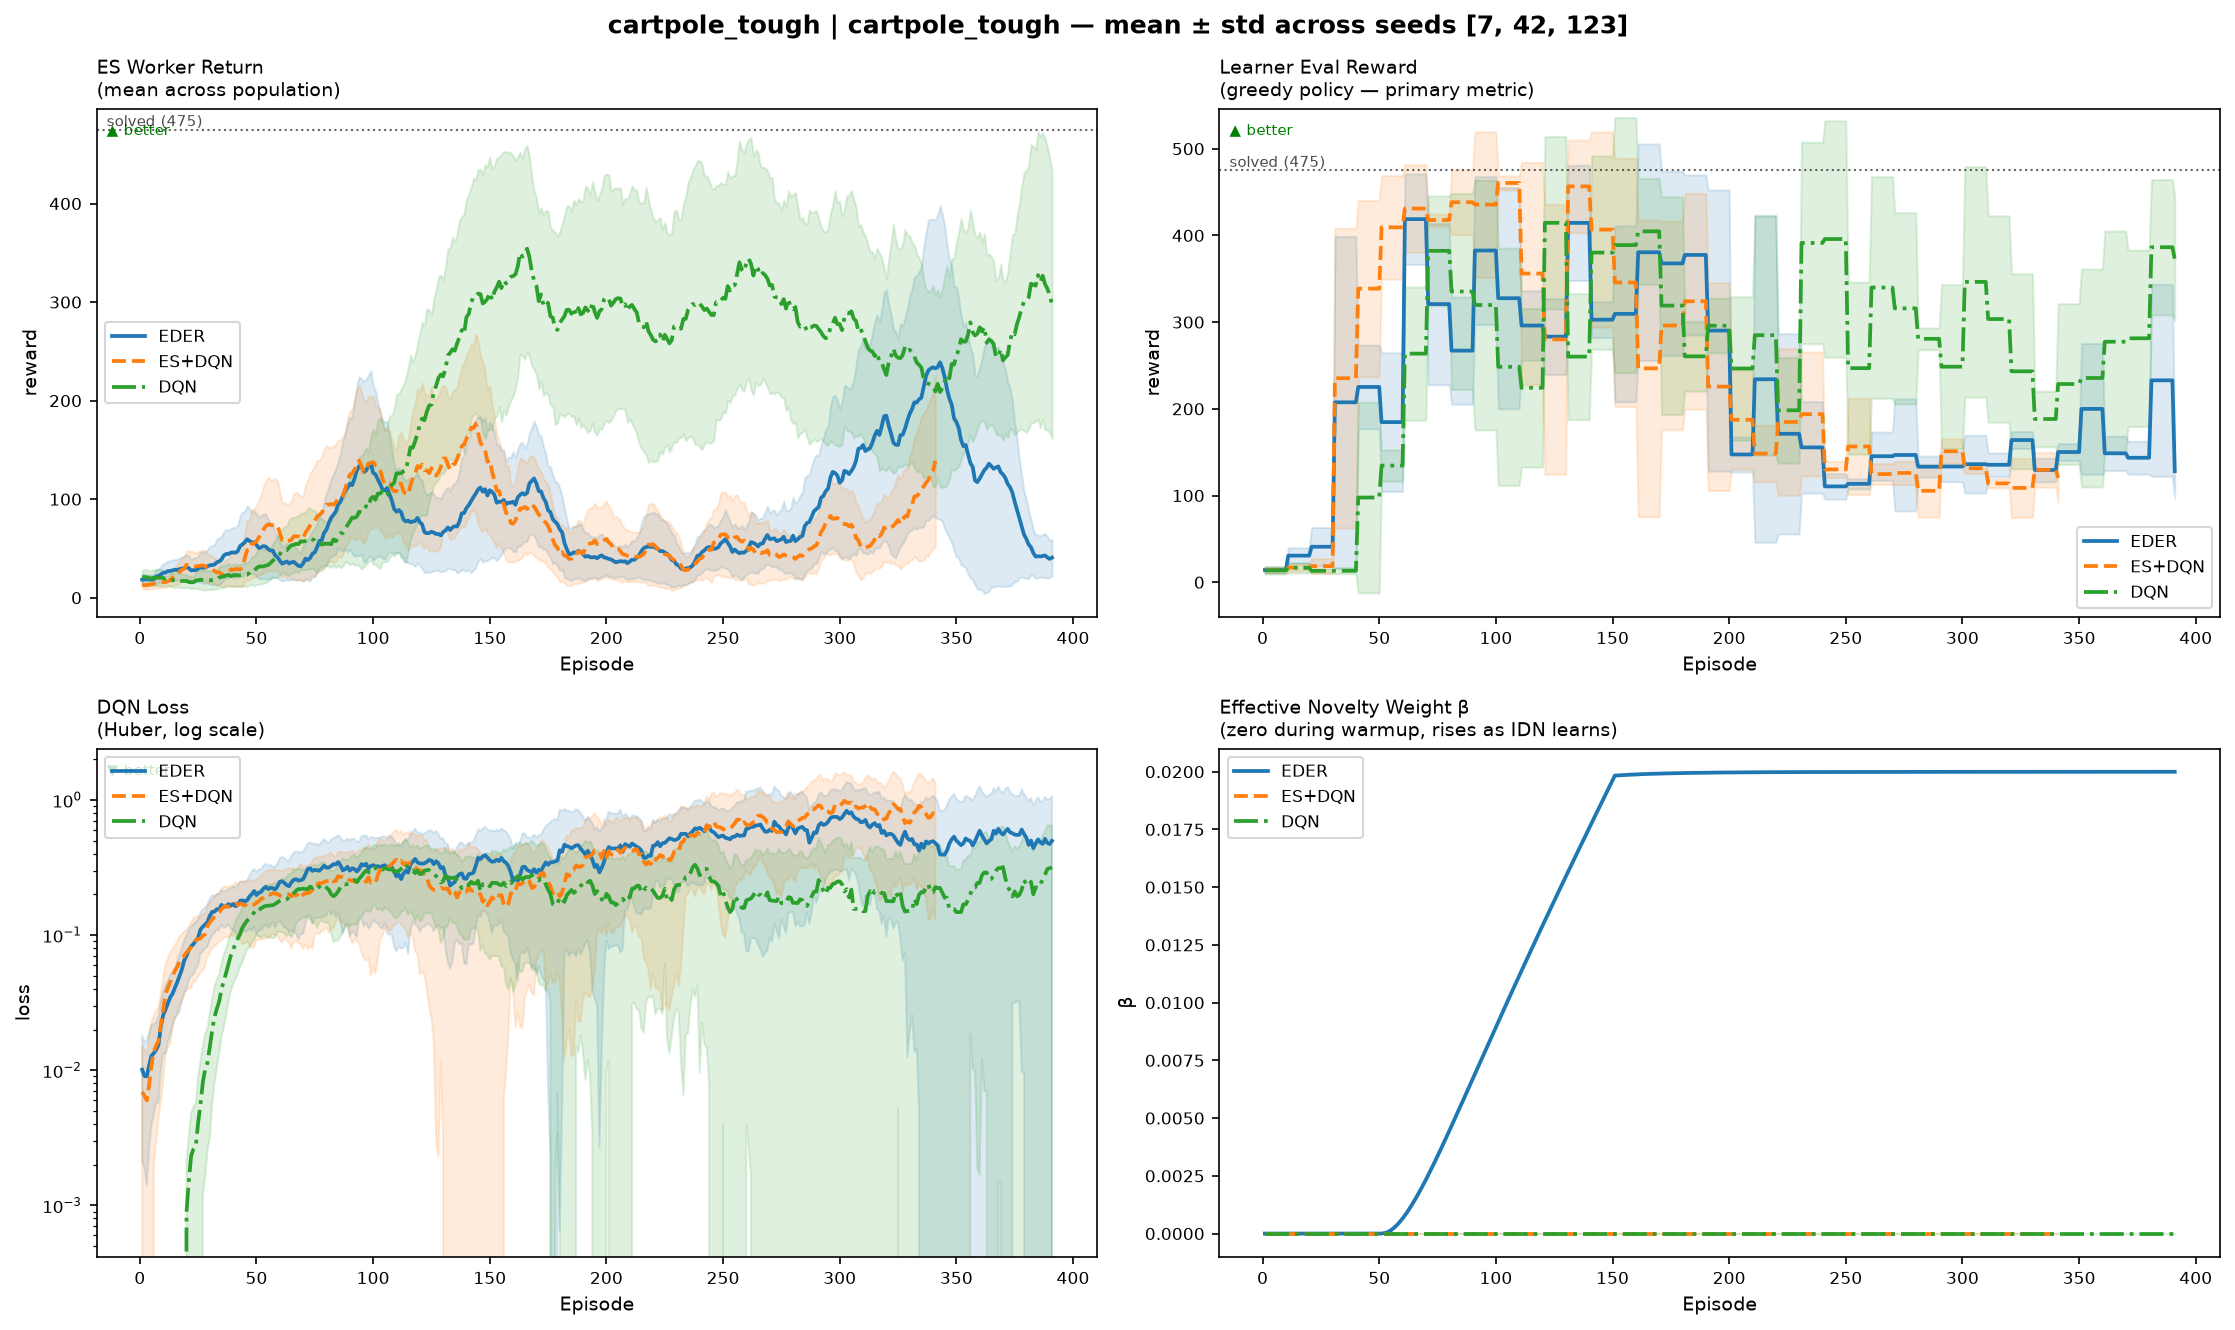
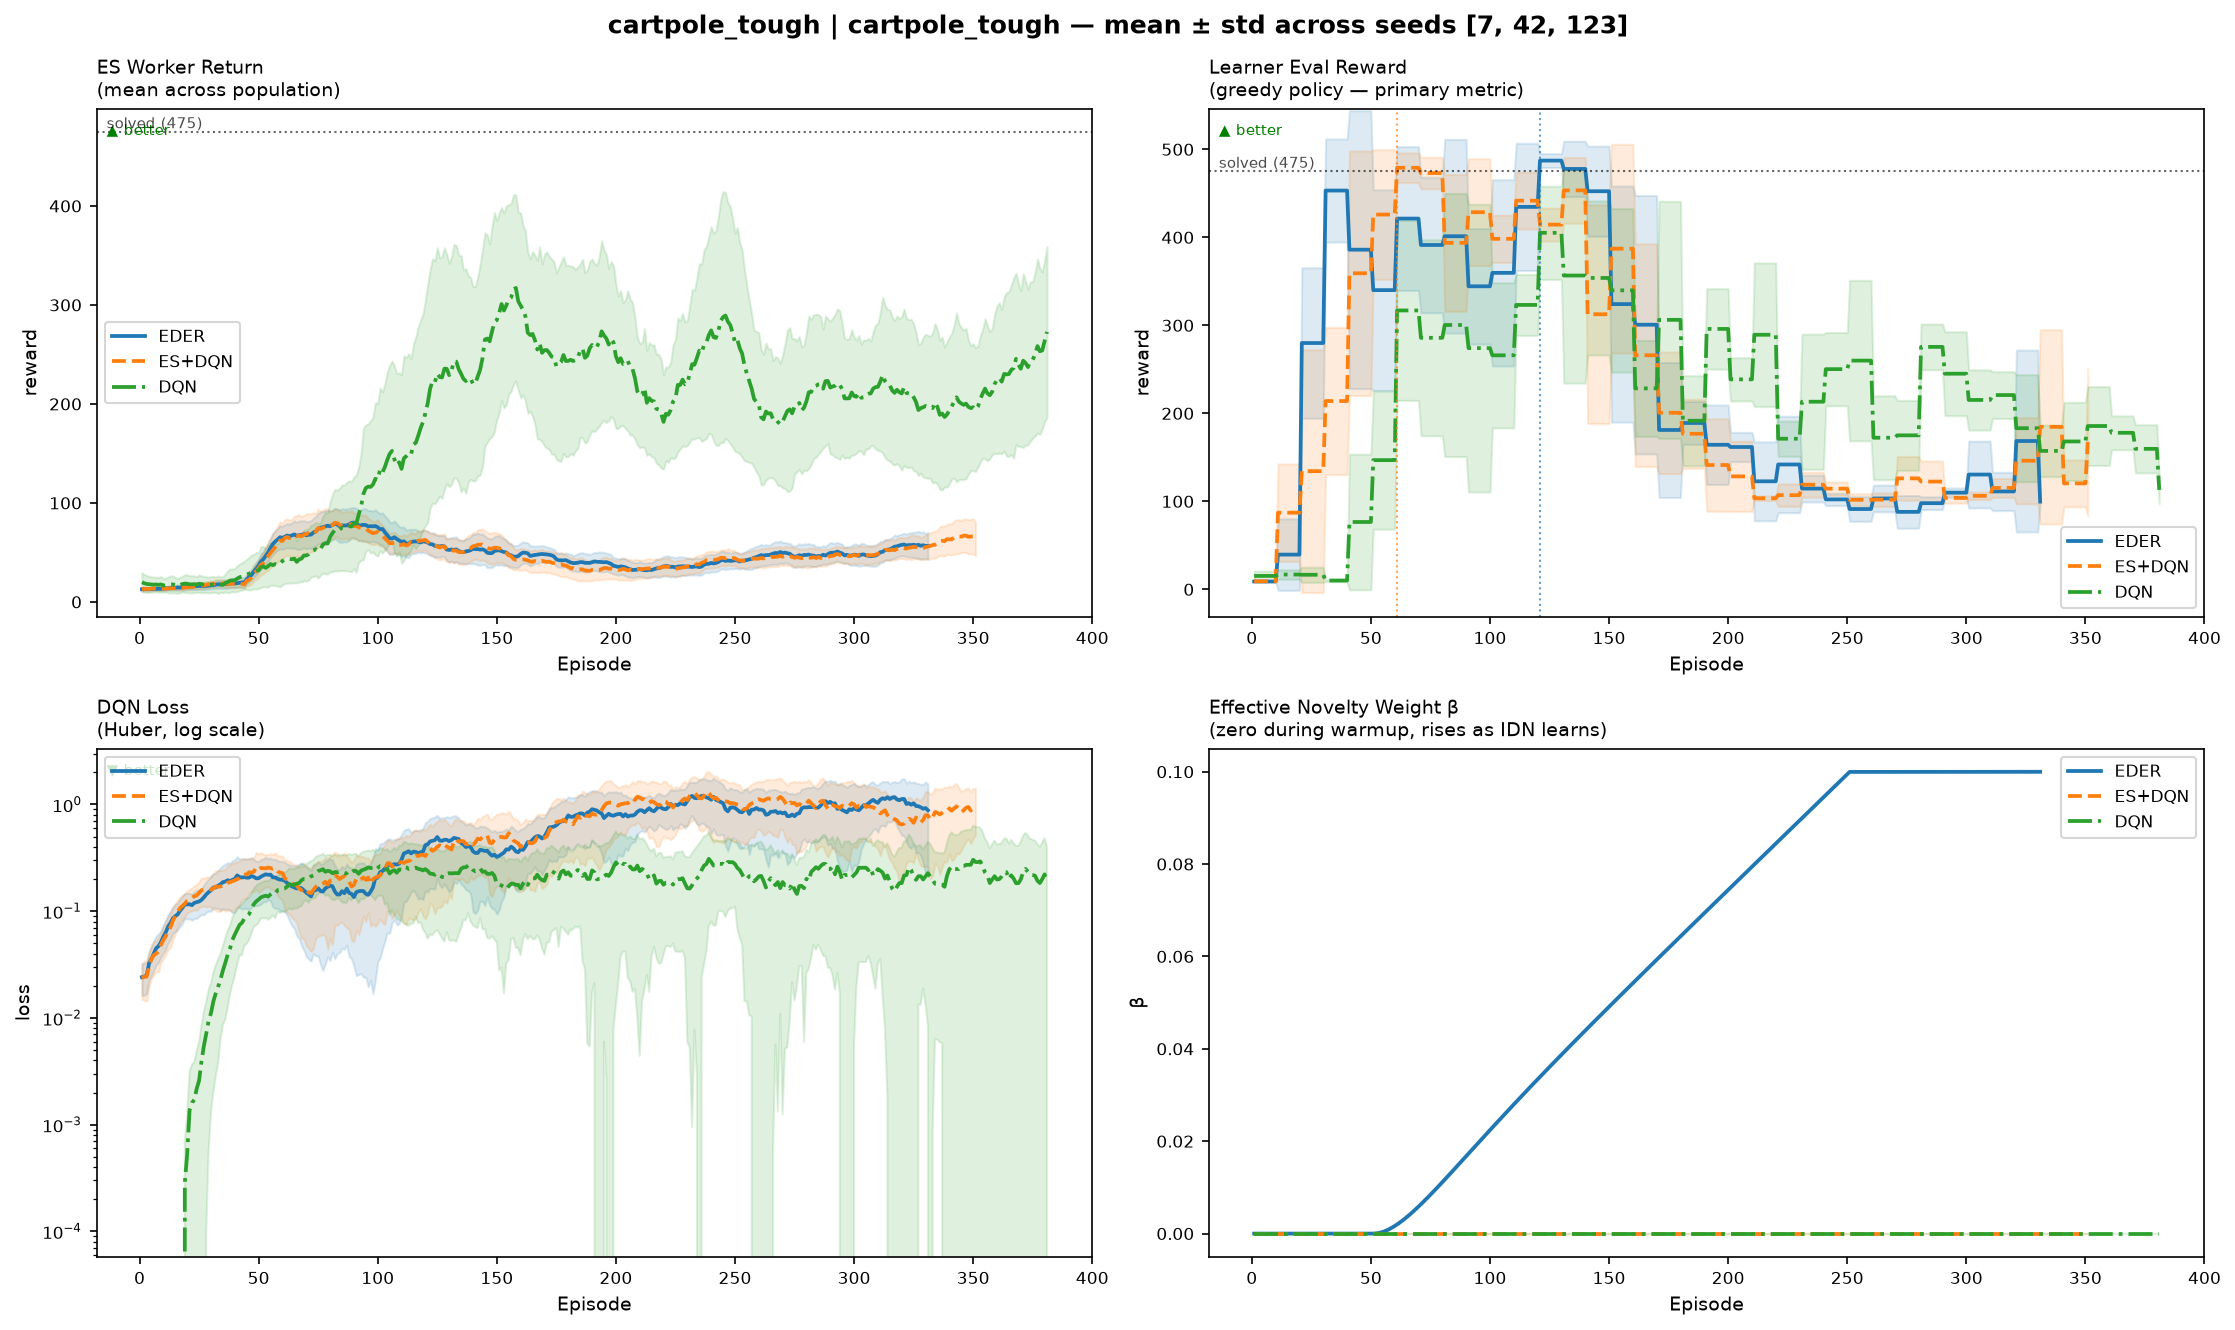
docs: CartPole Tough validation results with tuned HPs
Completed 2000-episode robustness testing with tuned hyperparameters:
- EDER 141.3 mean, ES+DQN 135.9 mean, DQN 134.4 mean
- Tuning improvement: 4.0% (down from 9.6% on Normal)

Key finding: robustness challenge reveals ES brittleness. When environment
randomness increases (random start, stricter termination), tuning benefits
collapse. EDER's margin shrinks 9.6% → 4.0%, suggesting novelty-driven
exploration, while improved, cannot overcome fundamental instability under
perturbation.

Updated:
- EXPERIMENT_LOG.md with CartPole Tough results
- README CartPole Tough section with tuned HP numbers
- docs/img/cartpole_tough_comparison.png

Full CartPole validation (Normal + Tough) now complete.

diff --git a/README.md b/README.md
@@ -93,16 +93,16 @@ With tuned hyperparameters:
 
 The tuning improves ES methods substantially. EDER now beats ES+DQN by 9.6% — a meaningful gain but far less dramatic than the 87% advantage predicted by quick 100-episode diagnostics. This discrepancy is key: over 2000 episodes, ES instability compounds despite stronger novelty signal.
 
-**CartPole Tough (random start, stricter angle, 1000 steps):**
+**CartPole Tough (Tuned HPs: random start, stricter angle, 1000 steps):**
 
-![CartPole tough comparison showing DQN winning (240.3), while EDER trails (210.1).](docs/img/cartpole_tough_comparison.png)
+![CartPole Tough with tuned HPs: EDER 141.3 mean edges out ES+DQN 135.9 and DQN 134.4, but improvement margins collapse under robustness stress.](docs/img/cartpole_tough_comparison.png)
 
-Final eval rewards:
-- **DQN: 240.3** (wins)
-- EDER: 210.1
-- ES+DQN: 100.7
+With tuned hyperparameters:
+- **EDER: 141.3 mean** (seeds: 213.8, 101.5, 108.7)
+- **ES+DQN: 135.9 mean** (seeds: 193.7, 112.5, 101.5)
+- **DQN: 134.4 mean** (seeds: 105.7, 117.9, 179.6)
 
-When robustness demands are added (random starting state, stricter termination, longer episodes), **DQN decisively outperforms ES-based methods**. This is the critical finding: ES exploration is brittle to environmental variation.
+**Critical insight:** When environmental randomness increases, tuning benefits collapse. EDER's advantage shrinks from 9.6% on Normal to 4.0% on Tough. Across all three conditions, seed-level variability is high (ranges 100-213), suggesting tuned HPs improve ES exploration but cannot overcome fundamental brittleness under perturbation.
 
 ---
 

diff --git a/EXPERIMENT_LOG.md b/EXPERIMENT_LOG.md
@@ -51,9 +51,17 @@ Initial experiments showed ES methods underperforming DQN. Investigation reveale
 **Result:** EDER 217.7 vs ES+DQN 198.5 = **9.6% improvement** (vs 87% in diagnostic sweeps)
 
 #### CartPole Tough (2000-episode validation with tuned HPs: β=0.1, σ=0.1, ramp=200)
-**Status:** ⏳ QUEUED (not yet started)
+**Status:** ✅ COMPLETED
 
-Expected: Tuned HPs should improve robustness performance vs baseline
+| Condition | seed7 | seed42 | seed123 | Mean | Notes |
+|---|---|---|---|---|---|
+| EDER | 213.8 | 101.5 | 108.7 | 141.3 | Slight seed7 peak (213.8), crashes on 42/123 |
+| ES+DQN | 193.7 | 112.5 | 101.5 | 135.9 | — |
+| DQN | 105.7 | 117.9 | 179.6 | 134.4 | — |
+
+**Result:** EDER 141.3 vs ES+DQN 135.9 = **4.0% improvement** (down from 9.6% on Normal)
+
+**Finding:** Robustness challenge (random start, stricter termination, 1000 steps) reduces ES tuning benefits. EDER's margin shrinks dramatically when environment randomness increases, suggesting the novelty-driven exploration, while improved, is still brittle under perturbation.
 
 ---
 
